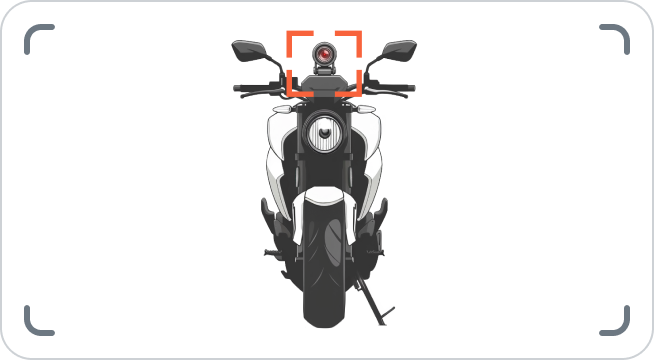
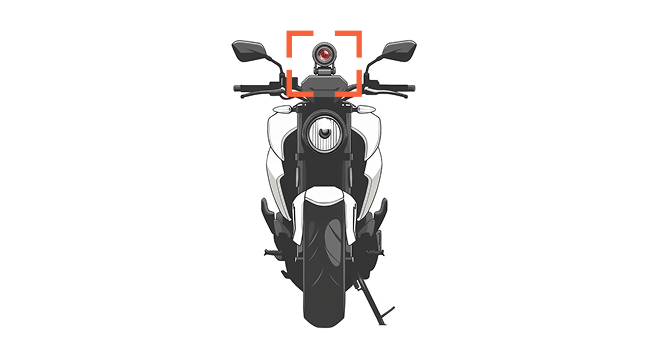
이륜차 이미지 수정

diff --git a/src/html/PR/MTBC/MPRMTBC13005020500.html b/src/html/PR/MTBC/MPRMTBC13005020500.html
@@ -8,29 +8,33 @@
 				<!-- s: 25-07-10 수정 -->
 				<h4 class="title_h4">이륜차 차체 고정 장착</h4>
 				<!-- e: 25-07-10 수정 -->
-				<!-- s: 25-07-23 수정 -->
 				<ul class="view_img_list ty2">
 					<li>
-						<div class="thumnail">
-							<img src="../../../images/content/mtbc/img_dashcam_ty1.png" alt="이륜차 차체 고정 장착 예시 이미지">
+						<!-- s: 25-08-05 수정 -->
+						<div class="file_attach_box">
+							<div class="file_thumbnail">
+								<img src="../../../images/content/mtbc/img_dashcam_ty1.png" alt="이륜차 차체 고정 장착 예시 이미지">
+							</div>
 						</div>
+						<!-- e: 25-08-05 수정 -->
 					</li>
 				</ul>
-				<!-- e: 25-07-23 수정 -->
 
 				<!-- s: 25-07-10 수정 -->
 				<h4 class="title_h4">헬멧 고정 장착</h4>
 
 				<!-- e: 25-07-10 수정 -->
-				<!-- s: 25-07-23 수정 -->
 				<ul class="view_img_list ty2">
 					<li>
-						<div class="thumnail">
-							<img src="../../../images/content/mtbc/img_dashcam_ty2.png" alt="헬멧 고정 장착 예시 이미지">
+						<!-- s: 25-08-05 수정 -->
+						<div class="file_attach_box">
+							<div class="file_thumbnail">
+								<img src="../../../images/content/mtbc/img_dashcam_ty2.png" alt="헬멧 고정 장착 예시 이미지">
+							</div>
 						</div>
+						<!-- e: 25-08-05 수정 -->
 					</li>
 				</ul>
-				<!-- e: 25-07-23 수정 -->
 			</div>
 		</div>
 		<div class="popup_bottom">

diff --git a/src/html/PR/MTBC/MPRMTBC13004011100.html b/src/html/PR/MTBC/MPRMTBC13004011100.html
@@ -19,17 +19,25 @@
 			<div class="acd_item acd_item_ty2">
 				{{#> cp/accordion ac-title="차량번호판 사진" cont-class="" ac-active=true }}
 				<p>이륜차와 차량번호가 명확하게 확인되도록 촬영해 주세요.</p>
-				<div class="img_area">
-					<img src="../../../images/content/mtps/car_discount_photo_ex01.png" alt="차량번호판 사진 예시 이미지">
+				<!-- s: 25-08-05 수정 -->
+				<div class="file_attach_box">
+					<div class="file_thumbnail">
+						<img src="../../../images/content/mtbc/img_bc_01.png" alt="차량번호판 사진 예시 이미지">
+					</div>
 				</div>
+				<!-- e: 25-08-05 수정 -->
 				{{/ cp/accordion }}
 			</div>
 			<div class="acd_item acd_item_ty2">
 				{{#> cp/accordion ac-title="블랙박스 장착 사진" cont-class="" ac-active=true }}
 				<p>이륜차 또는 헬맷에 장착된 블랙박스가 명확하게 확인되도록 촬영해 주세요.</p>
-				<div class="img_area">
-					<img src="../../../images/content/mtps/car_discount_photo_ex02.png" alt="블랙박스 장착 사진 예시 이미지">
+				<!-- s: 25-08-05 수정 -->
+				<div class="file_attach_box">
+					<div class="file_thumbnail">
+						<img src="../../../images/content/mtbc/img_bc_02.png" alt="블랙박스 장착 사진 예시 이미지">
+					</div>
 				</div>
+				<!-- e: 25-08-05 수정 -->
 				{{/ cp/accordion }}
 			</div>
 		</div>

diff --git a/src/index.html b/src/index.html
@@ -14743,7 +14743,11 @@
 							<td class="complete ok"></td>
 							<td class="bigo"></td>
 							<td class="bigo2"></td>
-							<td class="note"></td>
+							<td class="note">
+								<ul class="m-list">
+									<li>25-08-05</li>
+								</ul>
+							</td>
 						</tr>
 						<tr>
 							<td class="idx_dept1">상품</td>
@@ -15117,6 +15121,7 @@
 								<ul class="m-list">
 									<li>25-07-10</li>
 									<li>25-07-22</li>
+									<li>25-08-05</li>
 								</ul>
 							</td>
 						</tr>
